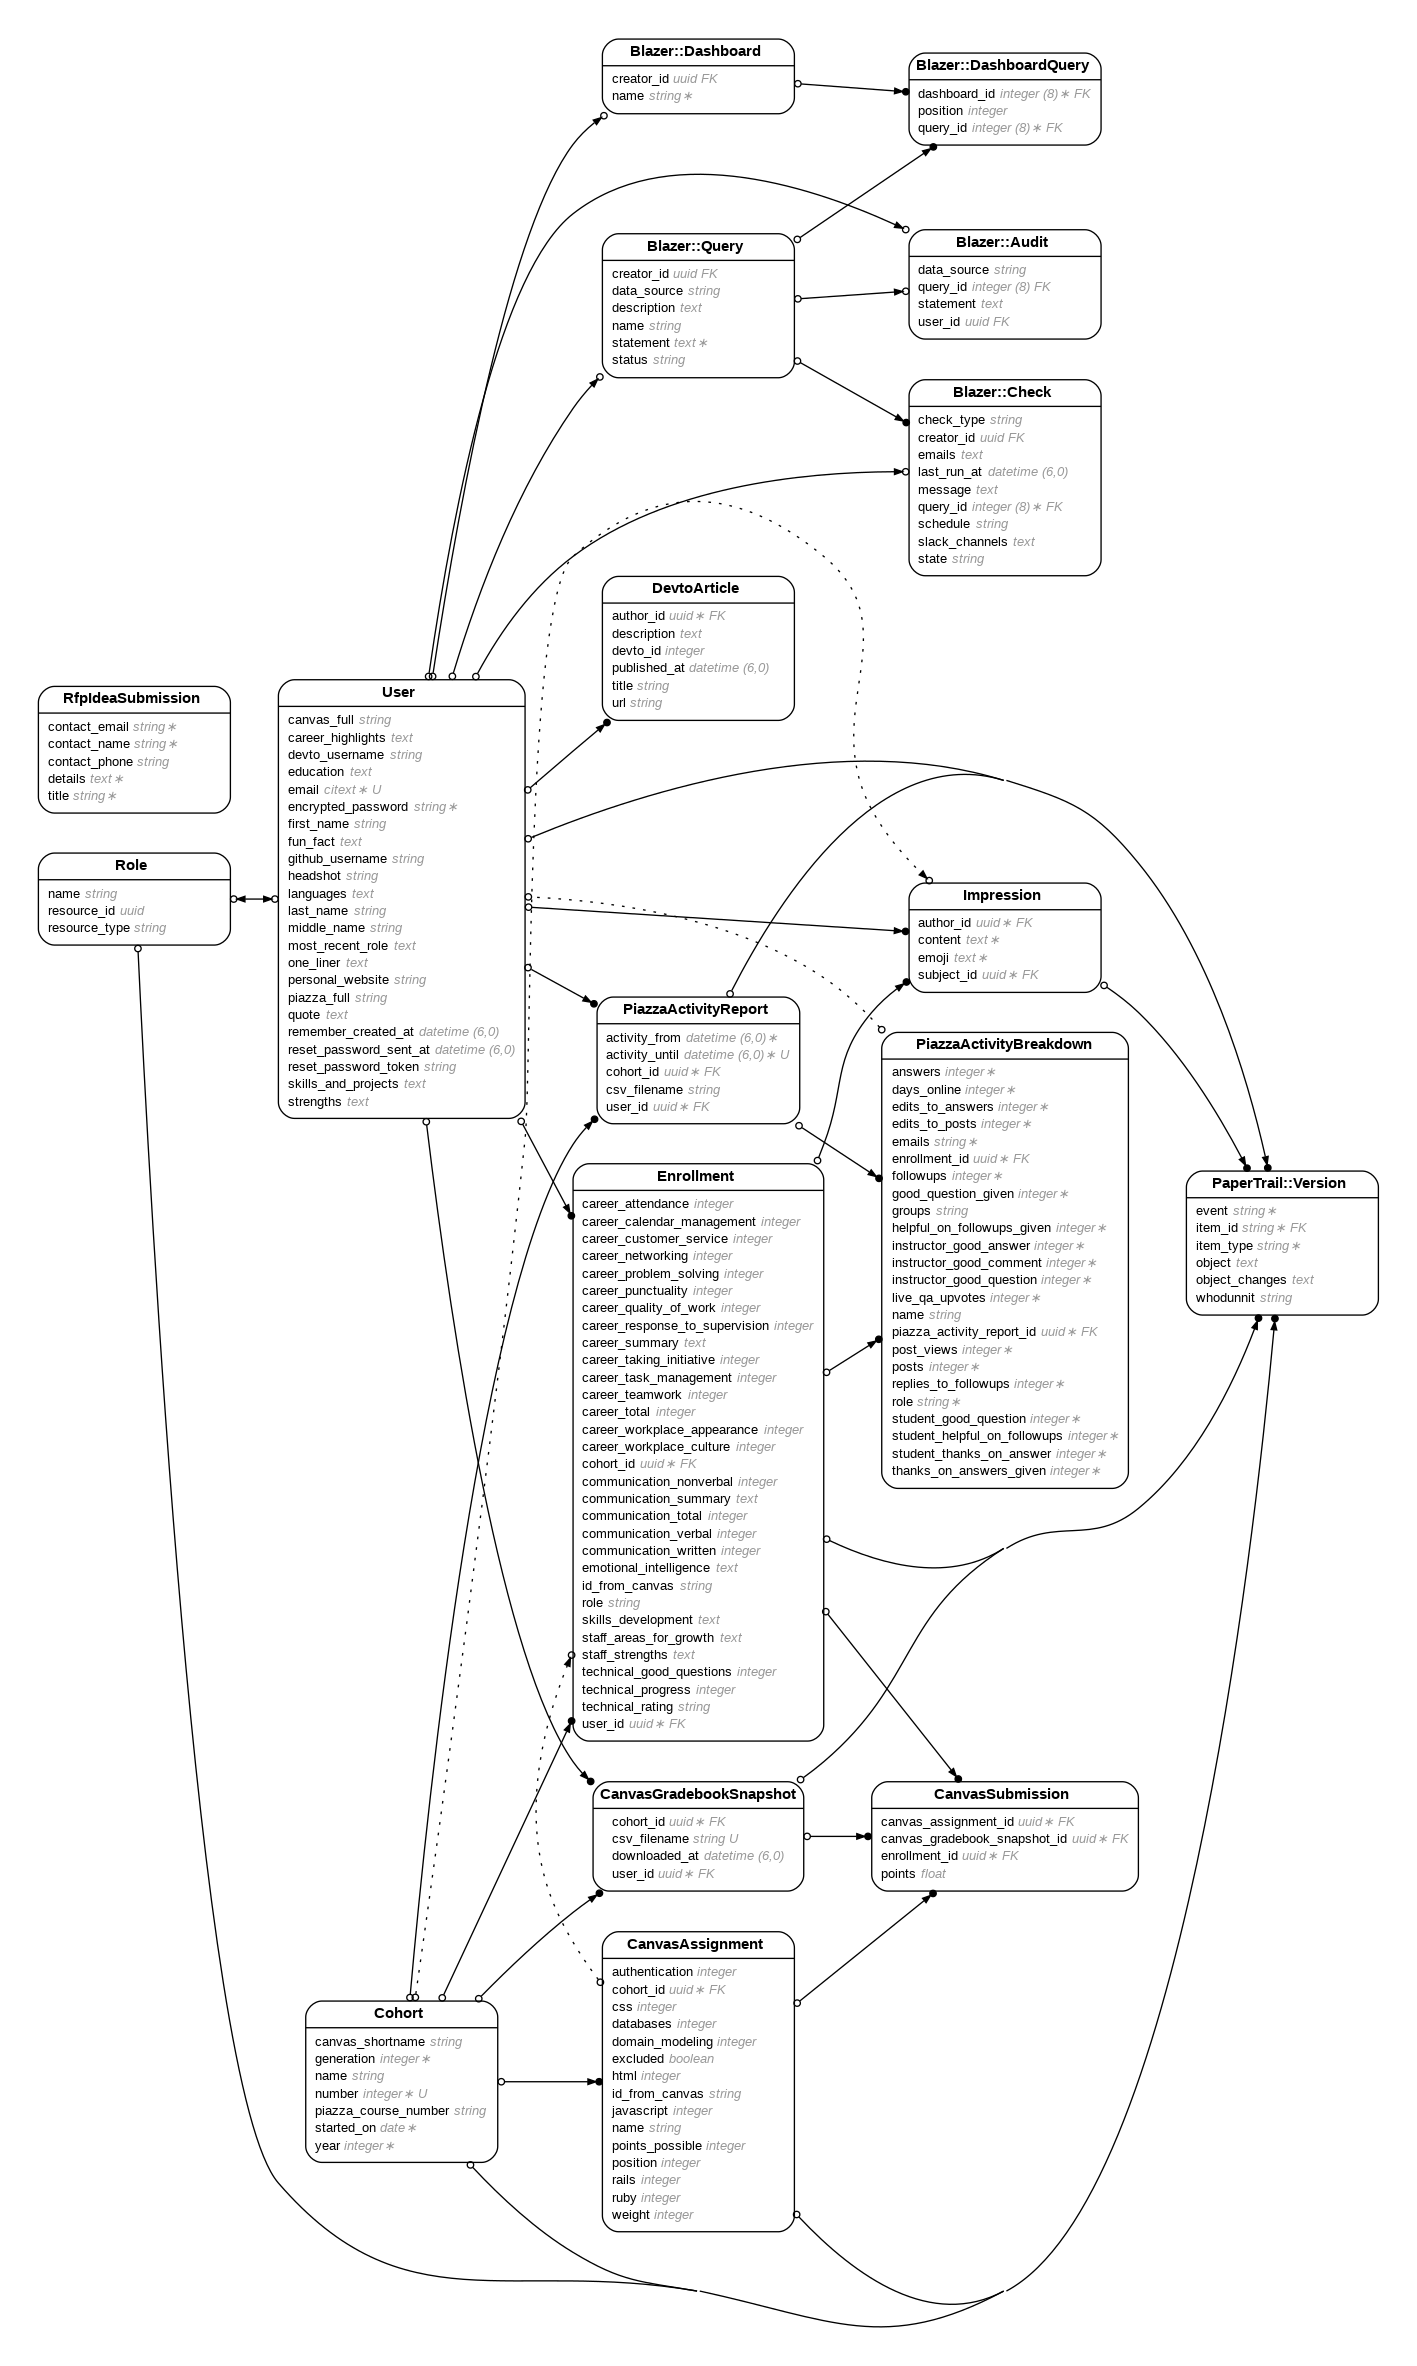
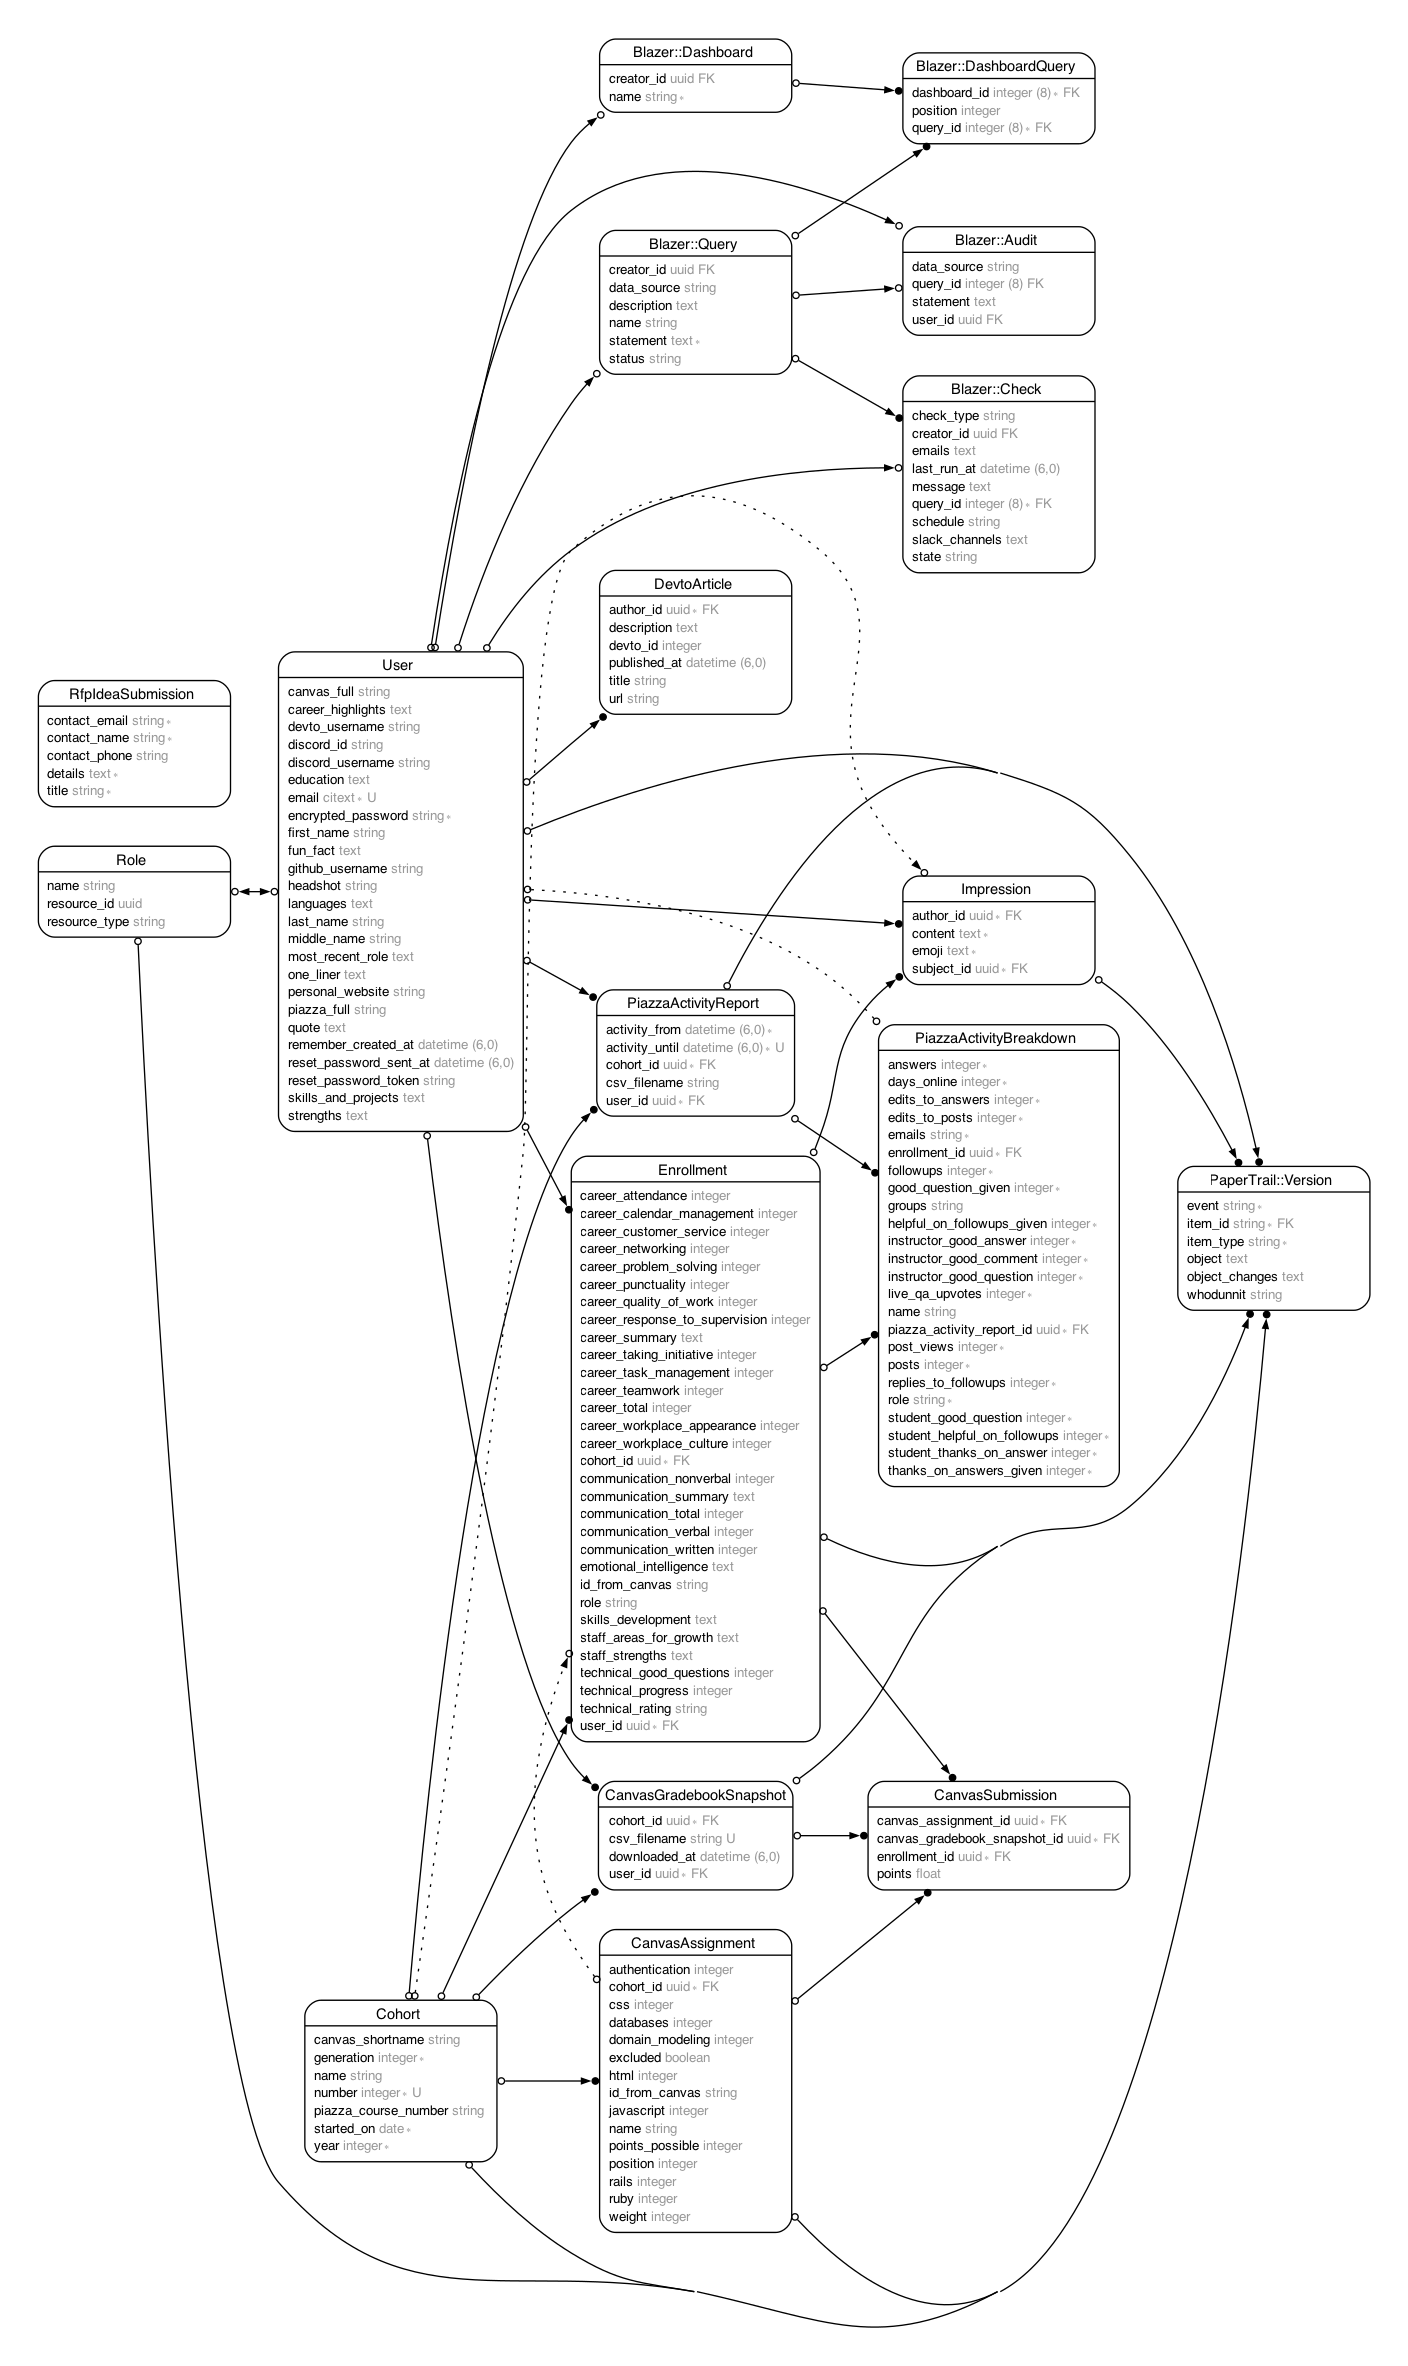
Migrate new columns

diff --git a/db/schema.rb b/db/schema.rb
@@ -10,7 +10,7 @@
 #
 # It's strongly recommended that you check this file into your version control system.
 
-ActiveRecord::Schema[7.0].define(version: 2024_09_04_181154) do
+ActiveRecord::Schema[7.0].define(version: 2024_09_05_182548) do
   # These are extensions that must be enabled in order to support this database
   enable_extension "citext"
   enable_extension "pgcrypto"
@@ -280,6 +280,8 @@ ActiveRecord::Schema[7.0].define(version: 2024_09_04_181154) do
     t.text "career_highlights"
     t.string "headshot"
     t.string "devto_username"
+    t.string "discord_id"
+    t.string "discord_username"
     t.index ["email"], name: "index_users_on_email", unique: true
     t.index ["github_username"], name: "index_users_on_github_username", unique: true
     t.index ["reset_password_token"], name: "index_users_on_reset_password_token", unique: true

diff --git a/app/models/user.rb b/app/models/user.rb
@@ -6,6 +6,7 @@
 #  canvas_full            :string
 #  career_highlights      :text
 #  devto_username         :string
+#  discord_username       :string
 #  education              :text
 #  email                  :citext           default(""), not null
 #  encrypted_password     :string           default(""), not null
@@ -28,6 +29,7 @@
 #  strengths              :text
 #  created_at             :datetime         not null
 #  updated_at             :datetime         not null
+#  discord_id             :string
 #
 # Indexes
 #

diff --git a/spec/models/user_spec.rb b/spec/models/user_spec.rb
@@ -6,6 +6,7 @@
 #  canvas_full            :string
 #  career_highlights      :text
 #  devto_username         :string
+#  discord_username       :string
 #  education              :text
 #  email                  :citext           default(""), not null
 #  encrypted_password     :string           default(""), not null
@@ -28,6 +29,7 @@
 #  strengths              :text
 #  created_at             :datetime         not null
 #  updated_at             :datetime         not null
+#  discord_id             :string
 #
 # Indexes
 #
